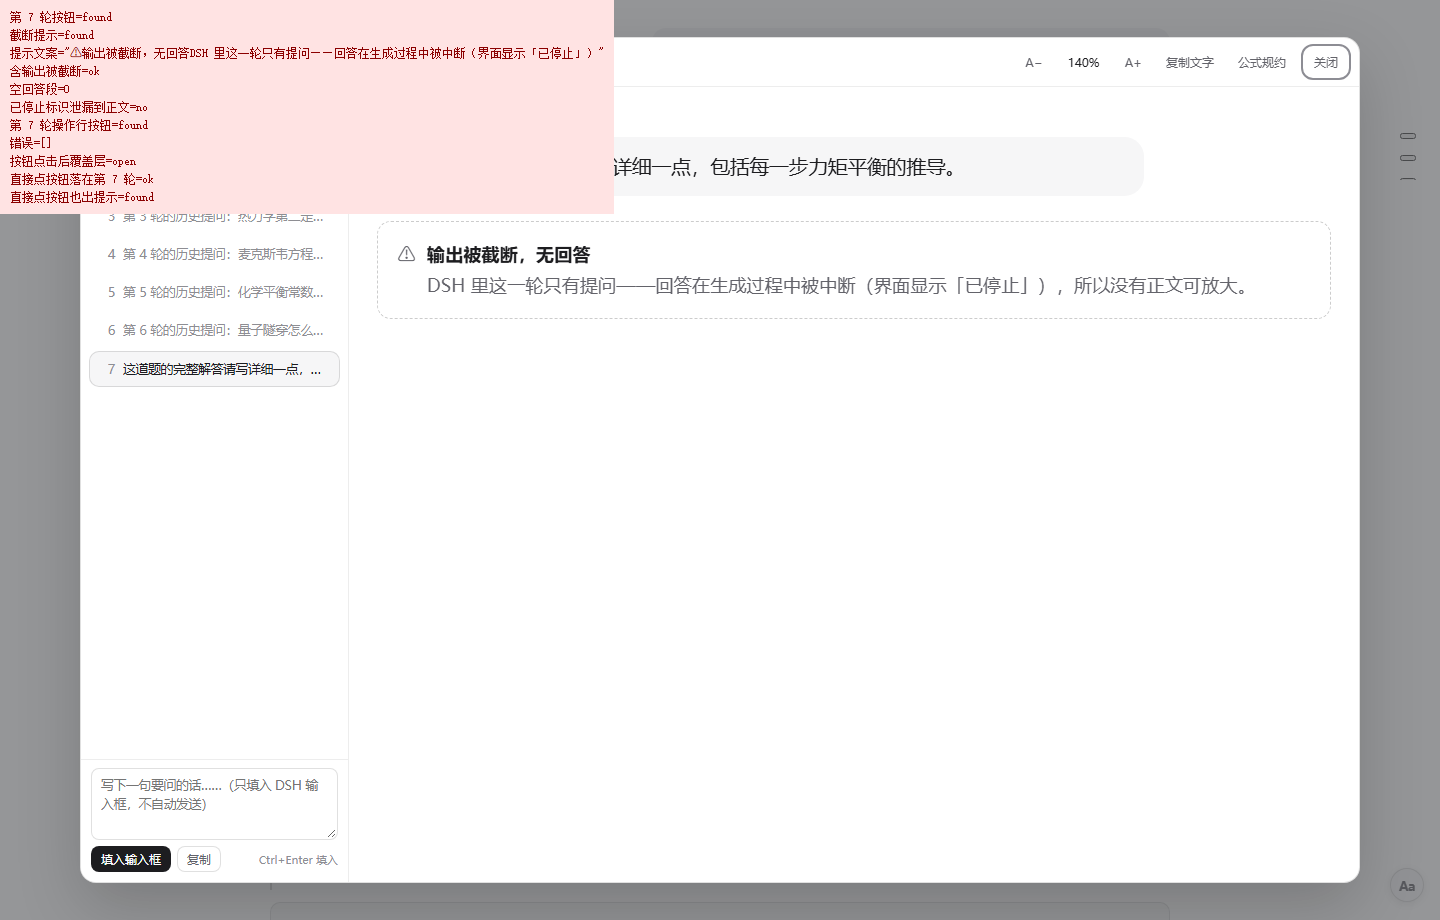
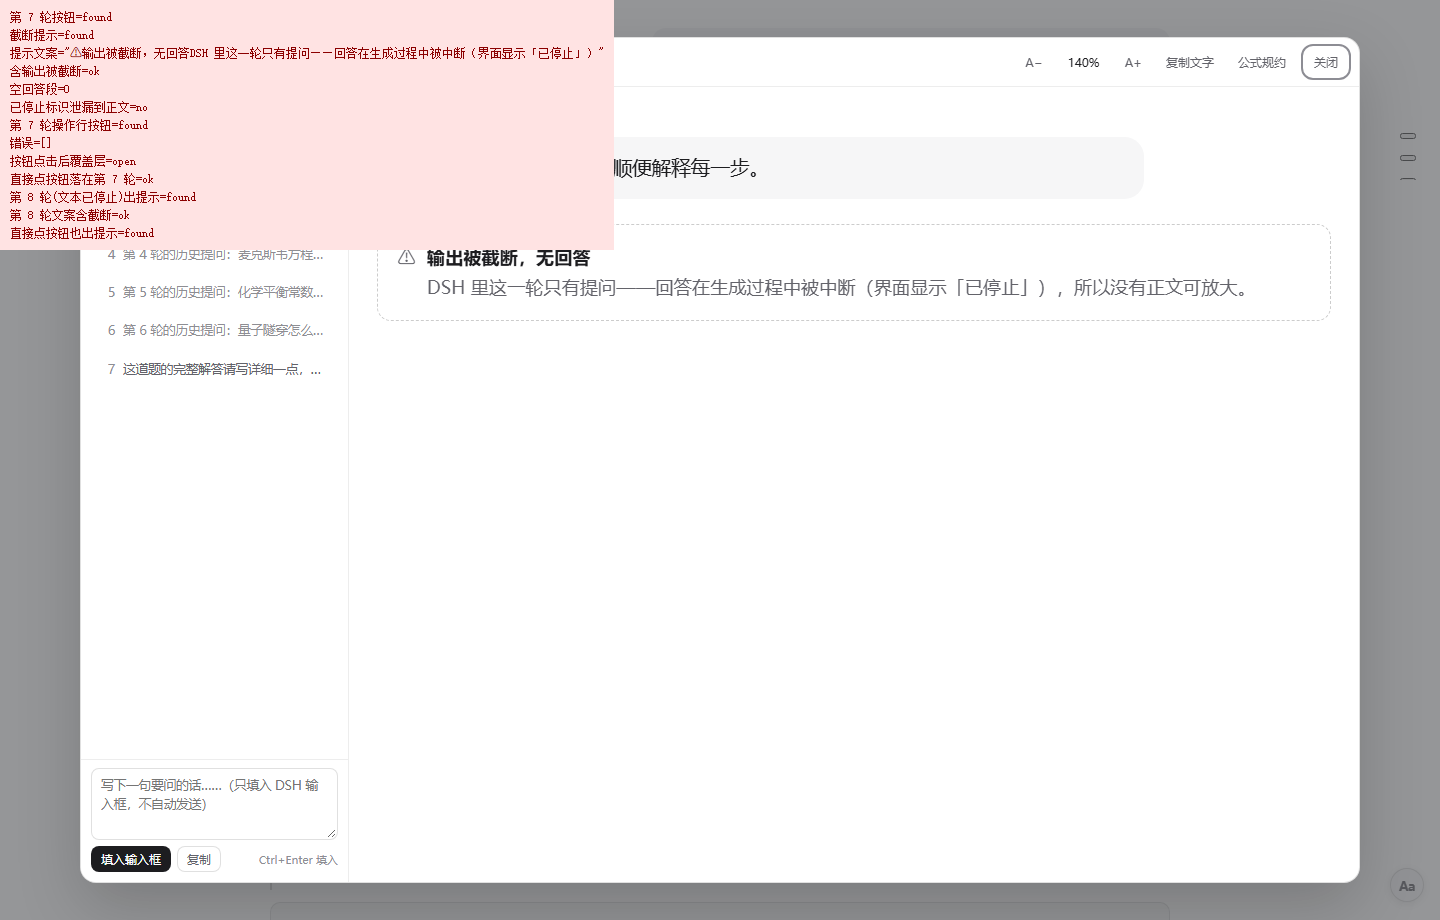
feat: fix hotkeys and invisible answers, detect stopped turns (v0.3.8)

diff --git a/client.js b/client.js
@@ -42,7 +42,7 @@ window.__ModuleLoader__.load({
     // v0.3.2：操作行按钮的同步函数（安装时赋值），浮层关闭后用它补一次，避免依赖整页 MutationObserver。
     let actionSync = null
     // 版本号：DOM 上会写进 data-dshzr-version，便于在真实 DSH 里确认加载的是哪一版。
-    const VERSION = '0.3.4'
+    const VERSION = '0.3.8'
     // 每轮回答底部的操作行所在容器（DSH chat 的 TurnTailNodeView 带这个属性）。
     const TAIL_ATTR = 'data-turn-tail'
     // 16px 对角双箭头（放大/展开），药丸与操作行按钮共用；stroke 用 currentColor 跟随主题。
@@ -207,7 +207,11 @@ window.__ModuleLoader__.load({
       'padding:20px 28px 40px;box-sizing:border-box}',
       /* v0.3.2：单轮内容整体做布局/绘制隔离，减少滚动时的重排范围 */
       '.dshzr-content .dshzr-item{contain:layout paint}',
-      '.dshzr-content{zoom:1.4;transform-origin:top left}',
+      '.dshzr-content{zoom:1.4;transform-origin:top left;font-size:var(--dsh-content-font-size,14px);line-height:calc(24px + var(--dsh-content-font-delta,0px));color:var(--dsw-alias-label-primary)}',
+      /* v0.3.7：克隆进来的回答可能背着宿主的入场动画（opacity:0 起步）或折叠态，
+         一旦动画不跑就永远停在透明状态——这正是「有字数、看不见」的常见原因。
+         阅读区不需要动画，直接强制可见。 */
+      '.dshzr-content *{animation:none!important;transition:none!important;opacity:1!important;visibility:visible!important}',
       '.dshzr-content .katex-display{overflow-x:auto;overflow-y:hidden;max-width:100%;padding:2px 0}',
       '.dshzr-content .katex-display > .katex{display:inline-block;transform-origin:left center}',
       '.dshzr-content .katex-error{color:var(--dsw-alias-label-secondary,#6b6b71)!important;',
@@ -654,22 +658,57 @@ window.__ModuleLoader__.load({
       return { nav, turns }
     }
 
-    /** 一轮实际渲染出来的行（跳过隐藏行、turn-tail、嵌套行）。 */
+    /**
+     * 一轮实际渲染出来的行。
+     * 真实 DSH 里回答可能被包在一个同样带 data-chat-turn 的容器里（组行套内容行），
+     * 只取「最内层」的那些行，避免外层包裹把内容行当成 nested 全部丢掉，也避免内容重复。
+     */
     function turnRows(scope, turn) {
-      const rows = []
-      if (scope === null || typeof scope.querySelectorAll !== 'function') return rows
+      const found = []
+      if (scope === null || typeof scope.querySelectorAll !== 'function') return found
       for (const node of scope.querySelectorAll('[' + TURN_ATTR + '="' + turn + '"]')) {
         if (node.getAttribute(FLOW_KIND_ATTR) === 'turn-tail') continue
         if (node.hasAttribute('hidden') || node.hasAttribute('data-turn-process-hidden')) continue
-        const parent = node.parentElement
-        const nested = parent === null ? null : parent.closest('[' + TURN_ATTR + ']')
-        if (nested !== null && scope.contains(nested)) continue
-        rows.push(node)
+        found.push(node)
       }
+      const rows = found.filter((node) => !found.some((other) => other !== node && node.contains(other)))
+      if (rows.length === 0) return found
       return rows
     }
 
+    /**
+     * 一行里真正承载回答正文的容器（DSH 的 <div class="…_root"><div class="…_body">…</div></div>）。
+     * 克隆整行时，行内的图标/操作条/虚拟定位都会一起搬进浮层；只取正文容器更稳，
+     * 也不会因为行被折叠/裁剪而把正文一起丢掉。
+     */
+    function bodiesOf(row) {
+      const bodies = []
+      const all = [row].concat(Array.prototype.slice.call(row.querySelectorAll('div[class]')))
+      for (const node of all) {
+        if (node === row && !tokensOf(node).some(isBodyToken)) continue
+        if (!tokensOf(node).some(isBodyToken)) continue
+        const parent = node.parentElement
+        if (parent !== null && tokensOf(parent).some(isRootToken)) {
+          bodies.push(parent)
+          continue
+        }
+        bodies.push(node)
+      }
+      // 去掉「已经被另一个 body 包住」的重复项
+      return bodies.filter((node) => !bodies.some((other) => other !== node && other.contains(node)))
+    }
+
     /** 一轮的「提问」「回答」片段（已清理、已剔除空行）。 */
+    /**
+     * 被中断的轮次在真实 DOM 里可能只是「已停止」一行小字，
+     * class 名里不一定带 stop 字样 —— 所以除了看标记，还要看这行是不是只有一句「已停止」。
+     */
+    function isStoppedRow(row) {
+      if (row.querySelector('[class*="stop"],[data-stopped],[aria-label*="停止"]') !== null) return true
+      const text = textOf(row).replace(/\s+/g, '')
+      return text !== '' && text.length <= 12 && /^(已停止|已中断|已终止|stopped)/i.test(text)
+    }
+
     function sectionsFor(scope, turn) {
       const prompts = []
       const answers = []
@@ -679,23 +718,118 @@ window.__ModuleLoader__.load({
         const kind = row.getAttribute(FLOW_KIND_ATTR) || ''
         // DSH 对被中断/截断的回答会渲染一个 .xMeOpW_stopped（已停止）状态块；
         // 这一块本身不是正文，去掉并在缺正文时给出明确提示。
-        if (row.querySelector('[class*="_stopped"],[class*="stopped"]') !== null) stopped = true
+        const stoppedRow = isStoppedRow(row)
+        if (stoppedRow) stopped = true
         if (kind === 'turn-error' || kind.indexOf('error') >= 0) {
           const errorText = textOf(row).trim()
           if (errorText !== '') failure = errorText
         }
-        const clone = row.cloneNode(true)
-        for (const extra of clone.querySelectorAll('[data-dshzr-tail],.dshzr-tail-btn,[class*="_stopped"],[class*="stopped"]')) {
-          extra.remove()
+        const isPrompt = kind.indexOf('user') === 0 || kind === 'steering'
+        const targets = isPrompt ? [row] : (bodiesOf(row).length > 0 ? bodiesOf(row) : [row])
+        // 只有「已停止」状态、没有正文的行不算回答，交给截断提示去说明。
+        if (stoppedRow && !isPrompt) continue
+        for (const target of targets) {
+          const clone = target.cloneNode(true)
+          for (const extra of clone.querySelectorAll('[data-dshzr-tail],.dshzr-tail-btn,[class*="_stopped"]')) {
+            extra.remove()
+          }
+          const clean = sanitizeClone(clone)
+          const text = textOf(clean).trim()
+          const media = clean.querySelector('.katex,img,svg,table,video,canvas') !== null
+          if (text === '' && !media) continue
+          if (isPrompt) prompts.push(clean)
+          else answers.push(clean)
         }
-        const clean = sanitizeClone(clone)
-        const text = textOf(clean).trim()
-        const media = clean.querySelector('.katex,img,svg,table,video,canvas') !== null
-        if (text === '' && !media) continue
-        if (kind.indexOf('user') === 0 || kind === 'steering') prompts.push(clean)
-        else answers.push(clean)
       }
       return { prompts, answers, stopped, failure }
+    }
+
+    /**
+     * 结构诊断：只统计数量与长度，不搬运正文内容。
+     * 目的：真实 DSH 里如果「有提问没回答」，把 DOM 结构暴露出来定位，而不是靠猜。
+     */
+    function probeTurn(scope, turn) {
+      const info = { turn: String(turn), rows: 0, kinds: [], bodies: 0, mdHosts: 0, prompts: 0, answers: 0, answerChars: 0, stopped: false, hiddenInAnswers: 0 }
+      try {
+        const rows = turnRows(scope, turn)
+        const sections = sectionsFor(scope, turn)
+        info.rows = rows.length
+        info.kinds = rows.map((row) => row.getAttribute(FLOW_KIND_ATTR) || '?').slice(0, 10)
+        info.bodies = rows.reduce((sum, row) => sum + bodiesOf(row).length, 0)
+        if (scope !== null && typeof scope.querySelectorAll === 'function') {
+          info.mdHosts = scope.querySelectorAll('[' + TURN_ATTR + '="' + String(turn) + '"] [' + HOST_ATTR + ']').length
+        }
+        info.prompts = sections.prompts.length
+        info.answers = sections.answers.length
+        info.answerChars = sections.answers.reduce((sum, node) => sum + textOf(node).length, 0)
+        info.hiddenInAnswers = sections.answers.reduce((sum, node) => sum + node.querySelectorAll('[hidden],[style*="display:none"],[style*="display: none"]').length, 0)
+        info.stopped = sections.stopped
+      } catch (error) {
+        info.error = String(error && error.message ? error.message : error)
+      }
+      return info
+    }
+
+    /** 渲染现场：把当前面板里「回答」块的 HTML 片段与几何信息带出来（只 POST 到本机）。 */
+    function probeRender() {
+      const out = { items: [], answer: null }
+      for (const item of Array.prototype.slice.call(document.querySelectorAll('.dshzr-item'))) {
+        const body = item.querySelector('.dshzr-item-body')
+        const rect = item.getBoundingClientRect()
+        const first = body === null ? null : body.firstElementChild
+        const style = first === null ? null : getComputedStyle(first)
+        out.items.push({
+          kind: item.getAttribute('data-kind'),
+          h: Math.round(rect.height),
+          textLen: item.textContent.length,
+          firstTag: first === null ? '' : first.tagName + '.' + String(first.className).slice(0, 40),
+          firstH: first === null ? 0 : Math.round(first.getBoundingClientRect().height),
+          display: style === null ? '' : style.display,
+          visibility: style === null ? '' : style.visibility,
+          opacity: style === null ? '' : style.opacity,
+          color: style === null ? '' : style.color,
+          hidden: body === null ? 0 : body.querySelectorAll('[hidden]').length,
+        })
+      }
+      const answer = document.querySelector('.dshzr-item[data-kind="answer"] .dshzr-item-body')
+      if (answer !== null && answer.firstElementChild !== null) {
+        const html = String(answer.firstElementChild.outerHTML || '')
+        out.answer = { htmlLen: html.length, html: html.slice(0, 6000) }
+      }
+      return out
+    }
+
+    /** 把诊断信息 POST 到本地 harness（没启动就静默失败，不影响使用）。 */
+    function reportProbe(scope, turn) {
+      try {
+        const rows = scope === null || typeof scope.querySelectorAll !== 'function' ? [] : Array.prototype.slice.call(scope.querySelectorAll('[' + TURN_ATTR + ']'))
+        const census = rows.slice(0, 80).map((row) => [
+          row.getAttribute(TURN_ATTR),
+          row.getAttribute(FLOW_KIND_ATTR) || '?',
+          row.hasAttribute('hidden') ? 'h' : '',
+          row.hasAttribute('data-turn-process-hidden') ? 'p' : '',
+          textOf(row).length,
+          row.querySelectorAll('[' + HOST_ATTR + ']').length,
+          bodiesOf(row).length,
+        ])
+        const payload = {
+          version: VERSION,
+          turn: String(turn),
+          scopeTurns: rows.length,
+          probe: probeTurn(scope, turn),
+          render: probeRender(),
+          rows: census,
+        }
+        const request = fetch('http://127.0.0.1:8791/diag', {
+          method: 'POST',
+          mode: 'cors',
+          headers: { 'content-type': 'text/plain' },
+          body: JSON.stringify(payload),
+        })
+        if (request && typeof request.catch === 'function') request.catch(() => {})
+      } catch (error) {
+        /* 诊断通道不可用不影响插件 */
+      }
     }
 
     /** DOM 里已经渲染出来的轮次（打开面板时先用它，异步再补全）。 */
@@ -822,6 +956,44 @@ window.__ModuleLoader__.load({
     }
 
     /* ── 全屏阅读浮层 ──────────────────────────────────────────────────── */
+    /** 宿主用 hidden / display:none 折叠的内容，在浮层里一律展开——否则就会出现「有字数、看不见」。 */
+    function revealHidden(node) {
+      node.querySelectorAll('[hidden]').forEach((child) => child.removeAttribute('hidden'))
+      node.querySelectorAll('[style]').forEach((child) => {
+        const style = child.getAttribute('style') || ''
+        if (/display\s*:\s*none/i.test(style)) child.style.removeProperty('display')
+        if (/visibility\s*:\s*hidden/i.test(style)) child.style.removeProperty('visibility')
+      })
+      if (node.hasAttribute('hidden')) node.removeAttribute('hidden')
+    }
+
+    /**
+     * 去掉宿主的布局类（形如 xMeOpW_root / V4vHZW_flowItem / _1KfHza_actions），
+     * 只留 markdown 与 KaTeX 的类：这两套才是排版需要的，其余在浮层里只会带来
+     * max-height / overflow / 折叠之类的副作用。
+     */
+    function stripHostClasses(node) {
+      const isHostToken = (token) =>
+        (/^[A-Za-z0-9]{2,12}_[A-Za-z]/.test(token) || /^_[A-Za-z0-9]{5,8}_/.test(token)) &&
+        token.indexOf('markdown') < 0 &&
+        token.indexOf('katex') < 0
+      const targets = [node].concat(Array.prototype.slice.call(node.querySelectorAll('[class]')))
+      for (const element of targets) {
+        const tokens = tokensOf(element)
+        if (tokens.length === 0) continue
+        const kept = tokens.filter((token) => !isHostToken(token))
+        if (kept.length === tokens.length) continue
+        if (kept.length === 0) {
+          element.removeAttribute('class')
+          // 纯宿主包裹层：连内联样式一起去掉（display:none / opacity:0 / 固定高度
+          // 这类折叠样式正是回答「有字数、看不见」的来源）。
+          element.removeAttribute('style')
+        } else {
+          element.setAttribute('class', kept.join(' '))
+        }
+      }
+    }
+
     function sanitizeClone(node) {
       node.querySelectorAll('script,style,link,iframe,object,embed,noscript').forEach((child) => child.remove())
       // v0.3.2：每个公式都有 MathML（给读屏/复制用）与 HTML 两份；浮层里只保留可视的 HTML 那份，
@@ -831,6 +1003,11 @@ window.__ModuleLoader__.load({
       node.querySelectorAll('[' + HOST_ATTR + ']').forEach((child) => child.removeAttribute(HOST_ATTR))
       node.querySelectorAll('[contenteditable]').forEach((child) => child.setAttribute('contenteditable', 'false'))
       node.querySelectorAll('[tabindex]').forEach((child) => child.setAttribute('tabindex', '-1'))
+      // v0.3.7：真实 DSH 里回答被宿主的布局类/隐藏标记包着，克隆进浮层后会出现
+      // 「节点在、字数在、但看不见」（默认视口折叠、max-height、hidden 等）。
+      // 浮层不需要宿主的布局，只保留 markdown / KaTeX 两套样式类。
+      revealHidden(node)
+      stripHostClasses(node)
       if (node.hasAttribute('id')) node.removeAttribute('id')
       return node
     }
@@ -1434,6 +1611,8 @@ window.__ModuleLoader__.load({
         window.setTimeout(() => {
           void refreshRail()
         }, 30)
+        // 结构诊断（只统计数量/长度，不含正文），本地 harness 没开就静默失败。
+        window.setTimeout(() => reportProbe(state.scope, state.currentTurn), 500)
 
         backdrop.addEventListener('mousedown', (event) => {
           if (event.target === backdrop) close()
@@ -1519,22 +1698,27 @@ window.__ModuleLoader__.load({
       disposers.push(() => fab.remove())
 
       function onKeyDown(event) {
-        if (event.defaultPrevented) return
+        if (event.repeat) return
         if (!event.altKey || event.ctrlKey || event.metaKey || event.shiftKey) return
-        // Alt+Z / Alt+E 都是「打开 / 关闭最近一条回答」
-        const shortcut = event.key === 'z' || event.key === 'Z' || event.key === 'e' || event.key === 'E'
+        // 用 event.code 兜底：中文输入法/非英文键盘布局下 event.key 可能不是字母。
+        // 也不要因为 defaultPrevented 或「焦点在输入框里」就退出——DSH 的输入框是
+        // contenteditable，几乎总是有焦点，上一版正是被这两条挡住，Alt+Z 完全没反应。
+        const code = event.code || ''
+        const shortcut =
+          code === 'KeyZ' || code === 'KeyE' ||
+          event.key === 'z' || event.key === 'Z' || event.key === 'e' || event.key === 'E'
         if (!shortcut) return
-        const target = event.target
-        if (target instanceof Element && target.closest('input,textarea,[contenteditable="true"]')) return
         event.preventDefault()
+        event.stopPropagation()
         if (overlay.isOpen()) {
           overlay.close()
           return
         }
         openFor(nearestMessage())
       }
-      document.addEventListener('keydown', onKeyDown)
-      disposers.push(() => document.removeEventListener('keydown', onKeyDown))
+      // capture 阶段先取事件，避免被宿主的快捷键处理吃掉
+      window.addEventListener('keydown', onKeyDown, true)
+      disposers.push(() => window.removeEventListener('keydown', onKeyDown, true))
 
       // 调试 / 自检入口
       window.__DSH_READ_ZOOM__ = {
@@ -1555,6 +1739,17 @@ window.__ModuleLoader__.load({
           })(),
           compose: document.querySelector('.dshzr-compose textarea') !== null,
         }),
+        // 手动自检：__DSH_READ_ZOOM__.diagnose(轮次号) 返回该轮的结构统计
+        diagnose: (turn) => {
+          const scope = activeScope()
+          const target = turn === undefined ? (document.querySelector('.dshzr-turn[data-active]') || {}).getAttribute?.('data-turn') : turn
+          return probeTurn(scope, target === undefined || target === null ? '' : target)
+        },
+        report: () => {
+          const active = document.querySelector('.dshzr-turn[data-active]')
+          reportProbe(activeScope(), active === null ? '' : active.getAttribute('data-turn'))
+          return 'sent'
+        },
       }
 
       return () => {

diff --git a/README.md b/README.md
@@ -101,7 +101,7 @@ v0.3.1 在真实会话里「打开 / 滚动 / 打字都一卡一卡」，v0.3.2 
 - 流式生成过程中整块会重渲染，插件用 MutationObserver 把按钮补回去（v0.3.2 起改为空闲时扫描，
   浮层打开期间不扫，关闭后补一次）。
 - 版本号写在 DOM 上，方便确认加载的是哪一版：按钮带 `data-dshzr-version="0.3.4"`，
-  右下角 `Aa` 的鼠标提示里也带版本号。
+  右下角 `Aa` 的鼠标提示里也带版本号（当前 0.3.8）。
 - **轮次列表的数据源**（v0.3.1）：DSH 的聊天时间线是虚拟滚动的，历史轮次不一定在 DOM 里，
   所以列表改读原生轮次导航（`nav[aria-label="轮次导航"]` 里的 `button.SNx2jG_mark`），
   用 `aria-label`（「跳转到第 N 轮」/「加载并跳转到第 N 轮」）解析轮次号；
@@ -170,6 +170,8 @@ window.__DSHZR_LOG__                 // 最近 200 条内部事件日志
 
 ## 更新记录
 
+- **0.3.8**：真实 DSH 里「已停止」有时只是一行小字、class 名里没有 stop 字样，导致截断提示不出现、面板里只显示「已停止」两个字；现在除了看标记，还会看「这一行是不是只有一句『已停止』」，命中就按截断处理。
+- **0.3.7**：修 Alt+Z / Alt+E 一直没反应（监听挂在冒泡阶段、且被「焦点在输入框就跳过」和 defaultPrevented 挡住）——改成 window 的 capture 阶段、用 event.code 兜底、去掉两道误判。同时修「放大后回答区空白」：展开 [hidden] 与内联 display:none、剥掉宿主布局类（只留 markdown/KaTeX）、面板内禁用动画并强制可见。
 - **0.3.4**：只发出提问、回答被截断（已停止）的轮次，在「回答」位置显式显示「输出被截断，无回答」；修「点这一轮自己的放大按钮却打开上一轮」的定位问题。
 - **0.3.3**：打开 / 关闭加了过渡（遮罩淡入淡出 + 面板轻微上浮，160–200ms，只动 opacity/transform，系统开启「减少动态效果」时跳过）；新增 Alt+E 快捷键（与 Alt+Z 等价）。
 - **0.3.1**：修两个实测问题。① 轮次列表只显示 2 轮 —— 因为 DSH 聊天时间线是虚拟滚动的，
